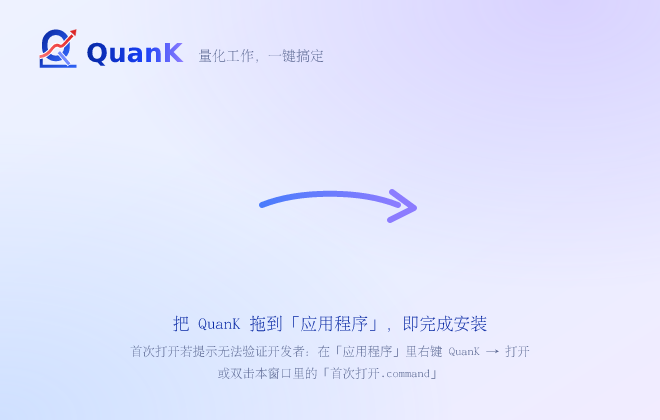
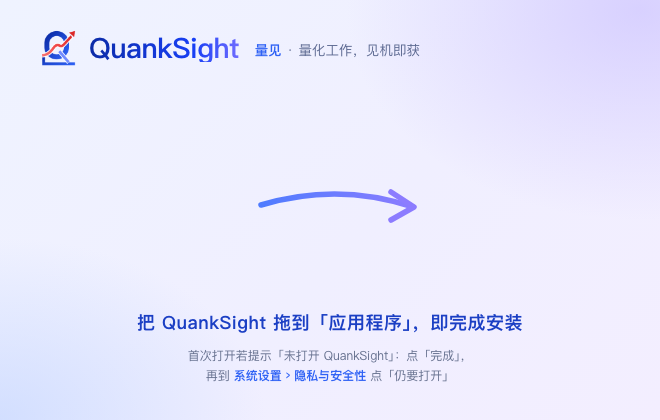
brand: 侧栏两行品牌（中文合一行）、侧栏加宽 248、DMG 背景改为 HTML 源 + 新品牌

diff --git a/desktop/src/app.js b/desktop/src/app.js
@@ -381,7 +381,9 @@ function officeEngineSettings() {
     ${phase === 'failed' ? action('重试','officeEngineRetry') : ''}`;
 }
 function settingsMarkup() {
-    return modelLibrary(state,escape) + '<section id="officeEngineSettings">' + officeEngineSettings() + '</section>';
+    // [v1.0.3] 版本号不再挂在侧栏品牌上，改在设置页底部以弱化文字显示。
+    return modelLibrary(state,escape) + '<section id="officeEngineSettings">' + officeEngineSettings() + '</section>'
+        + (appVersion ? `<p class="settings-version">版本 v${escape(appVersion)}</p>` : '');
 }
 function action(label, act, id = '', kind = 'secondary') { return `<button type="button" class="${kind}" data-action="${act}" data-id="${escape(id)}">${label}</button>`; }
 function empty(title, desc, button = '') { return `<div class="empty">${icon('spark')}<h3>${title}</h3><p>${desc}</p>${button}</div>`; }
@@ -424,7 +426,7 @@ function renderInner() {
     const active = nav.find(n => n[0] === page);
     const name = state.settings.name || '我的工作空间';
     $('#app').className = sidebarCollapsed ? 'sidebar-collapsed' : '';
-    const markup = `<div class="titlebar"></div><aside class="sidebar"><div class="brand"><span class="brand-mark"><img src="assets/logo.png" alt="QuankSight 标志"></span><div class="brand-text"><span class="brand-en">QuankSight</span><span class="brand-cn">量见${appVersion ? `<span class="brand-ver" title="当前版本 v${escape(appVersion)}">v${escape(appVersion)}</span>` : ''}</span><small>量化工作，见机即获</small></div></div><button class="new" data-action="new">${icon('plus')}<span>新建任务</span><span>⌘ N</span></button>${sidebarNav({page, icon, unread: feedUnread(approvalFeedState())})}<div class="recent"><div class="recent-header"><span>任务 <small>${state.chats.filter(c => !c.incognito).length}</small></span><button data-action="newFolder" aria-label="新建文件夹" title="新建文件夹">${icon('folder')}</button><button data-action="search" aria-label="搜索任务与成果">${icon('search')}</button></div><input id="recentQuery" aria-label="筛选历史任务" placeholder="搜索对话标题和内容" value="${escape(recentQuery)}"><div id="recentList">${recentRows()}</div></div><button class="profile" data-action="settings"><div class="avatar">QK</div><div>${escape(name)}<small>${escape(state.settings.model)} · 本地工作空间</small></div>${icon('settings')}</button></aside><main class="main"><header class="topbar"><div><button class="icon-button" data-action="sidebarToggle" aria-label="${sidebarCollapsed ? '展开' : '收起'}侧栏">${icon('grid')}</button><span class="topbar-title">${escape(page === 'chat' ? state.chats.find(c => c.id === chatId)?.name || '新任务' : active?.[2] || '工作台')}${(page === 'chat' && state.chats.find(c => c.id === chatId)?.incognito) || (page === 'home' && incognito) ? '<span class="incognito-badge">无痕</span>' : ''}</span></div><div>${state.officeEngine?.phase==='starting' ? '<span class="office-engine-pill" role="status" title="Office 引擎启动中">Office 启动中</span>' : ''}<button class="topbar-action" data-page="tasks" aria-label="查看后台任务">后台 ${(state.runJobs||[]).filter(j=>['running','cancelling'].includes(j.status)).length} 执行 · ${(state.runJobs||[]).filter(j=>j.status==='queued').length} 排队</button>${page === 'chat' && state.chats.some(c => c.id === chatId) ? `<button class="topbar-action" data-action="chatMenu" data-id="${escape(chatId)}" aria-label="对话操作">···</button>` : ''}${page === 'chat' ? `<button class="topbar-action" data-action="panelTab" data-id="execution">${icon('activity')}执行过程</button>` : ''}<button class="topbar-action ${sidePanel ? 'chosen' : ''}" data-action="panelToggle">${icon('file')}工作区</button><button class="status" data-action="settings"><span class="dot ${state.settings.hasKey ? 'on' : ''}"></span>${state.settings.hasKey ? escape(state.settings.model) : '连接模型'}</button></div></header><div class="workbench ${sidePanel ? 'with-panel' : ''}"><div class="workspace ${page === 'chat' ? 'conversation-space' : ''}">${content()}${['home', 'chat'].includes(page) ? '' : approvalMarkup()}</div>${sidePanel ? previewPanel() : ''}</div></main>`;
+    const markup = `<div class="titlebar"></div><aside class="sidebar"><div class="brand"${appVersion ? ` title="QuankSight v${escape(appVersion)}"` : ''}><span class="brand-mark"><img src="assets/logo.png" alt="QuankSight 标志"></span><div class="brand-text"><span class="brand-en">QuankSight</span><span class="brand-cn"><b>量见</b><i class="brand-dot">·</i>量化工作，见机即获</span></div></div><button class="new" data-action="new">${icon('plus')}<span>新建任务</span><span>⌘ N</span></button>${sidebarNav({page, icon, unread: feedUnread(approvalFeedState())})}<div class="recent"><div class="recent-header"><span>任务 <small>${state.chats.filter(c => !c.incognito).length}</small></span><button data-action="newFolder" aria-label="新建文件夹" title="新建文件夹">${icon('folder')}</button><button data-action="search" aria-label="搜索任务与成果">${icon('search')}</button></div><input id="recentQuery" aria-label="筛选历史任务" placeholder="搜索对话标题和内容" value="${escape(recentQuery)}"><div id="recentList">${recentRows()}</div></div><button class="profile" data-action="settings"><div class="avatar">QK</div><div>${escape(name)}<small>${escape(state.settings.model)} · 本地工作空间</small></div>${icon('settings')}</button></aside><main class="main"><header class="topbar"><div><button class="icon-button" data-action="sidebarToggle" aria-label="${sidebarCollapsed ? '展开' : '收起'}侧栏">${icon('grid')}</button><span class="topbar-title">${escape(page === 'chat' ? state.chats.find(c => c.id === chatId)?.name || '新任务' : active?.[2] || '工作台')}${(page === 'chat' && state.chats.find(c => c.id === chatId)?.incognito) || (page === 'home' && incognito) ? '<span class="incognito-badge">无痕</span>' : ''}</span></div><div>${state.officeEngine?.phase==='starting' ? '<span class="office-engine-pill" role="status" title="Office 引擎启动中">Office 启动中</span>' : ''}<button class="topbar-action" data-page="tasks" aria-label="查看后台任务">后台 ${(state.runJobs||[]).filter(j=>['running','cancelling'].includes(j.status)).length} 执行 · ${(state.runJobs||[]).filter(j=>j.status==='queued').length} 排队</button>${page === 'chat' && state.chats.some(c => c.id === chatId) ? `<button class="topbar-action" data-action="chatMenu" data-id="${escape(chatId)}" aria-label="对话操作">···</button>` : ''}${page === 'chat' ? `<button class="topbar-action" data-action="panelTab" data-id="execution">${icon('activity')}执行过程</button>` : ''}<button class="topbar-action ${sidePanel ? 'chosen' : ''}" data-action="panelToggle">${icon('file')}工作区</button><button class="status" data-action="settings"><span class="dot ${state.settings.hasKey ? 'on' : ''}"></span>${state.settings.hasKey ? escape(state.settings.model) : '连接模型'}</button></div></header><div class="workbench ${sidePanel ? 'with-panel' : ''}"><div class="workspace ${page === 'chat' ? 'conversation-space' : ''}">${content()}${['home', 'chat'].includes(page) ? '' : approvalMarkup()}</div>${sidePanel ? previewPanel() : ''}</div></main>`;
     officeWorkspace.update(markup, `${page}:${chatId}`);
     // [website-shot-fix] Last-resort guard: a page must never be open on both sides; keep the main copy.
     const mirror = !state.locked && pageTabs.find(t => t.kind === 'page' && t.page === page);

diff --git a/desktop/src/workbench.css b/desktop/src/workbench.css
@@ -2,7 +2,7 @@
 :root{--muted:#727a87;--line:#e8ebef;color:#242a32}
 button:focus-visible,summary:focus-visible{outline:2px solid #2f62f5;outline-offset:3px}
 .titlebar{height:32px;z-index:5;pointer-events:none}
-.sidebar{width:238px;padding:42px 12px 12px}
+.sidebar{width:248px;padding:42px 12px 12px} /* [v1.0.3] 238 → 248：品牌第二行「量见 · 标语」需要 ≥150px */
 .brand{padding:10px 9px 26px;gap:9px;font-size:21px;letter-spacing:-.6px}
 .brand-mark{width:32px;height:32px}
 .brand small{letter-spacing:.4px;font-size:10px;margin-top:5px}
@@ -1556,7 +1556,6 @@ svg.pf-svg text,svg.pf-svg tspan{stroke:none}
 @media (max-width:860px){.td-row{grid-template-columns:auto minmax(0,1fr)}.td-row .sec-pill,.td-acts{grid-column:2}.td-acts{justify-content:flex-start}}
 
 /* [v0.52] version badge next to the brand */
-.brand .brand-ver{display:inline-block;margin-left:6px;padding:1px 7px;border-radius:999px;font-size:10.5px;font-weight:600;line-height:16px;vertical-align:2px;color:#2F62F5;background:linear-gradient(90deg,#eef3ff,#f3eeff);border:1px solid #dfe6fb;letter-spacing:.2px}
 
 /* [v0.52.1] backtest plan label, per-second price flash */
 .q-return-head .q-return-plan{margin-left:10px;margin-right:auto;padding:2px 9px;border-radius:999px;font-size:12px;color:#4c5a85;background:#f1f4fc}
@@ -2415,12 +2414,20 @@ body.pp-on .main{container: qkmain / inline-size}
 @media (prefers-color-scheme:dark) { .qk-office-viewport { background:#252a33; } }
 
 /* [v1.0.2] Sidebar brand: larger mark, English name over 量见, tagline below — no empty band under the name. */
-.sidebar .brand{display:flex;align-items:center;gap:12px;padding:12px 10px 22px}
+.sidebar .brand{display:flex;align-items:center;gap:8px;padding:12px 6px 22px}
 .sidebar .brand-mark{width:54px!important;height:54px!important;flex:none}
 .sidebar .brand-mark img{width:100%;height:100%;object-fit:contain}
 .sidebar .brand-text{display:flex;flex-direction:column;justify-content:center;min-width:0;line-height:1.1}
 .sidebar .brand-en{font-size:22px;font-weight:800;letter-spacing:-.5px;color:#0b2ba6}
-.sidebar .brand-cn{display:flex;align-items:center;gap:6px;margin-top:4px;font-size:16px;font-weight:700;letter-spacing:4px;color:#2f62f5}
-.sidebar .brand-cn .brand-ver{margin-left:0;letter-spacing:.2px}
-.sidebar .brand-text small{margin-top:5px;font-size:11px;letter-spacing:.3px;color:#6b7aa8!important;font-weight:500;white-space:nowrap}
+.sidebar .brand-cn{display:block;margin-top:3px;font-size:12px;font-weight:500;letter-spacing:0;line-height:1.35;color:#6b7aa8!important;white-space:nowrap}
+.sidebar .brand-cn b{font-weight:700;color:#0b2ba6}
+.sidebar .brand-dot{margin:0 4px;font-style:normal;font-weight:600;color:#2f62f5}
 @media (prefers-color-scheme:dark){.sidebar .brand-en{color:#c9d6ff}.sidebar .brand-cn{color:#8fb0ff}}
+/* [v1.0.3] 窄窗口（侧栏 210px）兜底：logo 44、标语 11px，仍放不下就省略号 */
+@media(max-width:1150px){
+  .sidebar .brand{gap:8px;padding:12px 6px 22px}
+  .sidebar .brand-mark{width:44px!important;height:44px!important}
+  .sidebar .brand-cn{font-size:11px;overflow:hidden;text-overflow:ellipsis}
+}
+/* [v1.0.3] 版本号在设置页底部的弱化文字 */
+.settings-version{margin:18px 0 0;padding-top:14px;border-top:1px solid #e7ebf7;font-size:11.5px;color:#96a0bd;letter-spacing:.2px}

diff --git a/scripts/dmg-assets/background.html b/scripts/dmg-assets/background.html
@@ -1,0 +1,41 @@
+<!doctype html>
+<html lang="zh-CN"><head><meta charset="utf-8">
+<title>QuankSight DMG background</title>
+<!--
+  DMG 安装窗口背景源文件（v1.0.3 起）。
+  渲染：Chrome headless，窗口 660x420；
+    1x  → --force-device-scale-factor=1 → background.png    (660x420)
+    @2x → --force-device-scale-factor=2 → background@2x.png (1320x840)
+  Finder 图标位置（make-dmg.sh）：左 QuankSight.app、右「应用程序」，文字区避开图标。
+  LOGO 由渲染脚本替换为 desktop 里侧栏 .brand-mark 使用的透明底 logo（同目录 logo.png）。
+-->
+<style>
+html,body{margin:0;padding:0}
+body{width:660px;height:420px;overflow:hidden;position:relative;
+  font-family:"PingFang SC","Hiragino Sans GB","Helvetica Neue",sans-serif;-webkit-font-smoothing:antialiased;
+  background:
+    radial-gradient(420px 300px at 640px 10px, rgba(196,184,255,.55), transparent 70%),
+    radial-gradient(380px 260px at 0px 420px, rgba(186,208,255,.55), transparent 70%),
+    linear-gradient(135deg,#eff3ff 0%,#f0efff 55%,#f3eeff 100%)}
+.brand{position:absolute;left:39px;top:28px;display:flex;align-items:center;gap:10px}
+.brand img{width:40px;height:40px;display:block}
+.brand .en{font-size:28px;font-weight:800;letter-spacing:-.5px;line-height:1;
+  background:linear-gradient(90deg,#0B2BA6,#183FF5 70%,#6f6cff);-webkit-background-clip:text;background-clip:text;color:transparent}
+.brand .cn{margin-left:6px;font-size:13.5px;color:#5d6a92;line-height:1;padding-top:6px;white-space:nowrap}
+.brand .cn b{color:#2F62F5;font-weight:700}
+.brand .cn i{font-style:normal;margin:0 5px;color:#8c95b5}
+svg.arrow{position:absolute;left:0;top:0}
+.main{position:absolute;left:0;right:0;top:310px;text-align:center;font-size:18px;font-weight:600;color:#1b3fc4;letter-spacing:.5px}
+.sub{position:absolute;left:0;right:0;top:346px;text-align:center;font-size:12px;line-height:20px;color:#66718f}
+.sub b{color:#2F62F5;font-weight:600}
+</style></head>
+<body>
+<div class="brand"><img src="logo.png" alt=""><span class="en">QuankSight</span><span class="cn"><b>量见</b><i>·</i>量化工作，见机即获</span></div>
+<svg class="arrow" width="660" height="420" viewBox="0 0 660 420">
+  <defs><linearGradient id="g" x1="0" x2="1"><stop offset="0" stop-color="#4F7CFF"/><stop offset="1" stop-color="#8C7CFF"/></linearGradient></defs>
+  <path d="M261 205 Q338 182 413 207" fill="none" stroke="url(#g)" stroke-width="5.5" stroke-linecap="round"/>
+  <polyline points="391,192 414,207 391,220" fill="none" stroke="#8C7CFF" stroke-width="5.5" stroke-linecap="round" stroke-linejoin="round"/>
+</svg>
+<div class="main">把 QuankSight 拖到「应用程序」，即完成安装</div>
+<div class="sub">首次打开若提示「未打开 QuankSight」：点「完成」，<br>再到 <b>系统设置 › 隐私与安全性</b> 点「仍要打开」</div>
+</body></html>
